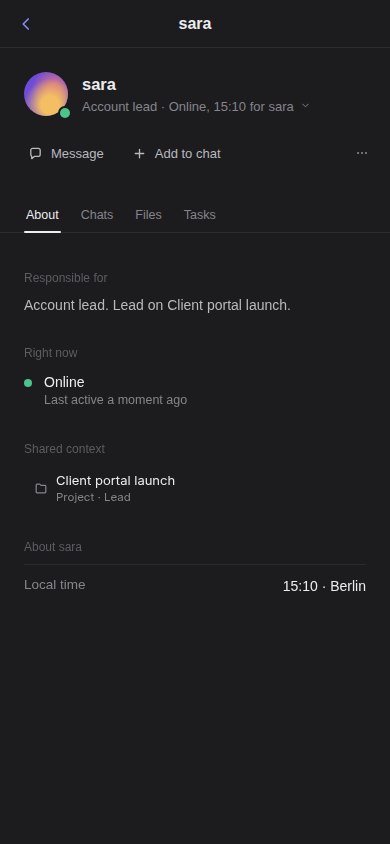
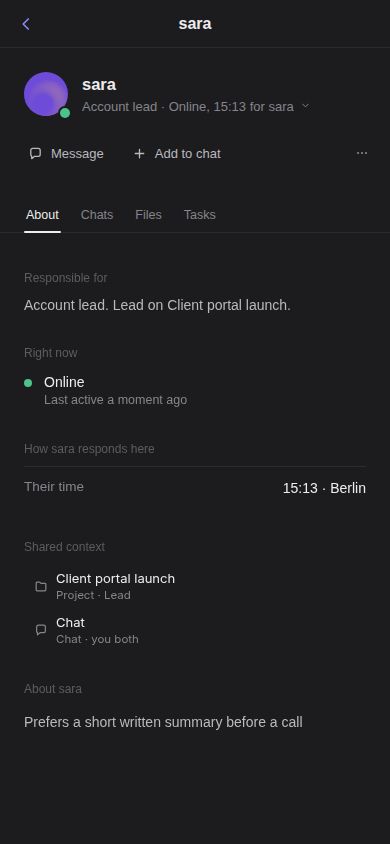
feat(chats): person About has the prototype's sections; live test proves the private fact never shows

diff --git a/apps/app/src/places/chats/rightpane/PersonProfile.tsx b/apps/app/src/places/chats/rightpane/PersonProfile.tsx
@@ -68,6 +68,7 @@ export function PersonProfile(p: PersonProfileProps): ReactElement {
   const presence = useRead<PresenceOut | undefined>(p.call, "devices.presence", { people: [p.id] }, (o) => (o as CapMap["devices.presence"]["out"]).people[0]);
   const pub = useRead<PublicOut>(p.call, "settings.public_of", { personId: p.id }, (o) => o as PublicOut);
   const roles = useRead<{ id: string; project: string; role: string }[]>(p.call, "projects.roles_of", { personId: p.id }, (o) => (o as CapMap["projects.roles_of"]["out"]).roles.map((r) => ({ id: r.projectId, project: r.title, role: ROLE_WORD[r.role] ?? r.role })));
+  const shared = useRead<ThreadRow[]>(p.call, "threads.list", { kind: ["chat"], mine: true, order: "latest", limit: 60 }, (o) => (o as CapMap["threads.list"]["out"]).threads.filter((t) => t.members.some((m) => m.kind === "person" && m.id === p.id)));
   const known = useRead<string[]>(p.call, "memory.profile.get", { personId: p.id }, (o) => publicLines(o as CapMap["memory.profile.get"]["out"]));
   const state = presence?.state as PresenceState | undefined;
   const time = localTime(p.now(), pub?.timezone);
@@ -90,7 +91,7 @@ export function PersonProfile(p: PersonProfileProps): ReactElement {
         ))}
       </View>
       <ScrollView style={st.body} contentContainerStyle={st.content}>
-        {tab === "about" ? <About {...p} known={known ?? []} roles={roles ?? []} first={first} state={state} lastSeenAt={presence?.lastSeenAt} pub={pub} time={time} /> : null}
+        {tab === "about" ? <About {...p} chats={shared ?? []} known={known ?? []} roles={roles ?? []} first={first} state={state} lastSeenAt={presence?.lastSeenAt} pub={pub} time={time} /> : null}
         {tab === "chats" ? <Chats {...p} first={first} /> : null}
         {tab === "files" ? <Files {...p} first={first} /> : null}
         {tab === "tasks" ? <Tasks {...p} first={first} /> : null}
@@ -103,7 +104,7 @@ export function PersonProfile(p: PersonProfileProps): ReactElement {
 const label = (t: string): ReactElement => <Text key={t} style={st.label}>{t}</Text>;
 const kv = (k: string, v: string | undefined): ReactElement | null => (v === undefined || v === "" ? null : <View key={k} style={st.kv}><Text style={st.k}>{k}</Text><Text style={[st.v, st.vEnd]}>{v}</Text></View>);
 
-function About(p: PersonProfileProps & { known: readonly string[]; roles: readonly { id: string; project: string; role: string }[]; first: string; state: PresenceState | undefined; lastSeenAt: number | undefined; pub: PublicOut | null; time: string | undefined }): ReactElement {
+function About(p: PersonProfileProps & { chats: readonly ThreadRow[]; known: readonly string[]; roles: readonly { id: string; project: string; role: string }[]; first: string; state: PresenceState | undefined; lastSeenAt: number | undefined; pub: PublicOut | null; time: string | undefined }): ReactElement {
   const roles = p.roles;
   const resp = responsibleFor(p.title ?? p.pub?.title, roles);
   const away = p.state === "away";
@@ -112,12 +113,17 @@ function About(p: PersonProfileProps & { known: readonly string[]; roles: readon
     <View testID="person-about">
       {label("Responsible for")}<Text testID="person-resp" style={st.body14}>{resp}</Text>
       {p.state !== undefined ? <>{label("Right now")}<View style={st.now}><View style={[st.dot, { backgroundColor: (away ? "var(--warn)" : p.state === "online" ? "var(--ok)" : "var(--ink-4)") as string }]} /><View><Text style={st.v}>{presenceWord(p.state)}</Text>{now ? <Text style={st.sub}>{now}</Text> : null}</View></View></> : null}
-      {p.roles.length > 0 ? <>{label("Shared context")}{p.roles.map((r) => (
-        <Row key={r.id} id={`person-project-${r.id}`} title={r.project} note={`Project · ${r.role}`} leading={<LeadIcon name="folder" />} onPress={() => p.openProject?.(r.id)} />
-      ))}</> : null}
-      {p.pub?.timezone || p.pub?.hours || p.pub?.pronouns || p.known.length > 0 ? label(`About ${p.first}`) : null}
-      {kv("Local time", p.time && p.pub?.timezone ? `${p.time} · ${cityOf(p.pub.timezone)}` : undefined)}
-      {kv("Working hours", p.pub?.hours ? `${hoursWords(p.pub.hours)}, ${p.first}'s time` : undefined)}
+      {p.pub?.hours || p.pub?.timezone ? <>{label(`How ${p.first} responds here`)}
+        {kv("Available", p.pub?.hours ? hoursWords(p.pub.hours) : undefined)}
+        {kv("Their time", p.time && p.pub?.timezone ? `${p.time} · ${cityOf(p.pub.timezone)}` : undefined)}</> : null}
+      {p.roles.length > 0 || p.chats.length > 0 ? <>{label("Shared context")}
+        {p.roles.map((r) => (
+          <Row key={r.id} id={`person-project-${r.id}`} title={r.project} note={`Project · ${r.role}`} leading={<LeadIcon name="folder" />} onPress={() => p.openProject?.(r.id)} />
+        ))}
+        {p.chats.slice(0, 3).map((t) => (
+          <Row key={t.threadId} id={`person-shared-chat-${t.threadId}`} title={t.title ?? t.preview ?? "Chat"} note="Chat · you both" leading={<LeadIcon name="chat" />} onPress={() => p.openThread?.(t.threadId)} />
+        ))}</> : null}
+      {p.pub?.pronouns || p.known.length > 0 ? label(`About ${p.first}`) : null}
       {kv("Pronouns", p.pub?.pronouns)}
       {p.known.map((line) => <Text key={line} testID="person-known" style={[st.body14, st.fact]}>{line}</Text>)}
     </View>

diff --git a/test/person-profile.live.test.ts b/test/person-profile.live.test.ts
@@ -20,6 +20,11 @@ test("person profile, team: pressing a person in the chat's People popover opens
     // what Sara set about herself, and a project the two can see: the role line, About and Shared context draw from these
     await sara.ok("settings.set", { key: "profile.timezone", value: "Europe/Berlin" });
     await sara.ok("settings.set", { key: "profile.title", value: "Account lead" });
+    // one fact in her public profile and one in her private: the public one shows, the private one never reaches the owner's page
+    const PUBLIC_FACT = "Prefers a short written summary before a call";
+    const PRIVATE_FACT = "Takes Thursday mornings for a standing appointment";
+    await sara.ok("memory.profile.add", { text: PUBLIC_FACT, to: "public" });
+    await sara.ok("memory.profile.add", { text: PRIVATE_FACT, to: "private" });
     const projectId = (await w.owner.ok("projects.create", { type: "project", title: "Client portal launch", idempotencyKey: "pf-project" })).projectId as string;
     await w.owner.ok("projects.members.set", { projectId, principal: sara.id, role: "lead" });
     const me = await seat(s, w.owner, "Owner");
@@ -35,7 +40,9 @@ test("person profile, team: pressing a person in the chat's People popover opens
     assert.ok(await me.page.getByTestId("participants-button").count() >= 1, "the chat is still open beside it");
     assert.match(await me.page.getByTestId("person-header").innerText(), /Account lead.*for sara/i, "the role line carries their local time");
     await me.page.getByTestId(`row-person-project-${projectId}`).waitFor({ timeout: 15_000 });   // Shared context lists the project you both see
+    await me.page.getByText(PUBLIC_FACT).first().waitFor({ timeout: 15_000 });   // About shows the public line
     await me.page.waitForTimeout(1500);
+    assert.equal((await me.page.locator("body").innerText()).includes(PRIVATE_FACT), false, "the private fact never reaches the page");
     await shoot(me.page, OUT, "chat-person-wide");
 
     // the phone: the full-screen sheet like the other panes
@@ -48,6 +55,8 @@ test("person profile, team: pressing a person in the chat's People popover opens
     // where the bottom nav would be, the page the profile draws is on top
     assert.equal(await me.page.evaluate("(function(){var e=document.elementFromPoint(195,window.innerHeight-20);return !!(e&&e.closest('[data-testid=phone-profile]'))})()"), true, "the profile covers the bottom nav");
     await me.page.waitForTimeout(1500);
+    await me.page.getByText(PUBLIC_FACT).first().waitFor({ timeout: 15_000 });
+    assert.equal((await me.page.locator("body").innerText()).includes(PRIVATE_FACT), false, "nor on a phone");
     await shoot(me.page, OUT, "chat-person-phone");
     await me.page.getByTestId("phone-profile-back").click();
     await me.page.getByTestId("phone-profile").waitFor({ state: "detached", timeout: 10_000 });

diff --git a/changelog.d/wip-l-share2.md b/changelog.d/wip-l-share2.md
@@ -17,3 +17,4 @@
 - Reach: a refused person profile shows "You can't see this person's profile" and opens nothing; an allowed one opens in Chats.
 - Person profile: pressing a person in the chat People popover (or opening a person link) opens their public profile in the chat's right pane. About adds the public lines of memory.profile.get; the private part never reaches the pane.
 - Person profile: presence dot 10 px with a 2 px ring; About lists Shared context (projects you both can see, each opens the project); on a phone the profile is a full-screen page with a back arrow and the name over the bottom nav.
+- Person profile About: "How <name> responds here" (their hours and time, from what they set), Shared context lists projects and up to three chats you both are in, About <name> carries pronouns and the public profile lines. Live test seeds a public and a private fact and proves the private one never reaches the page.
